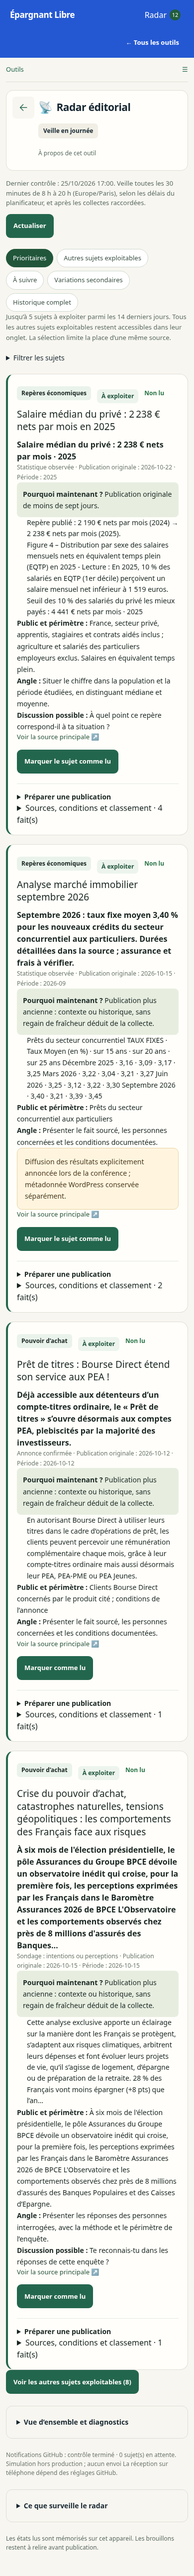
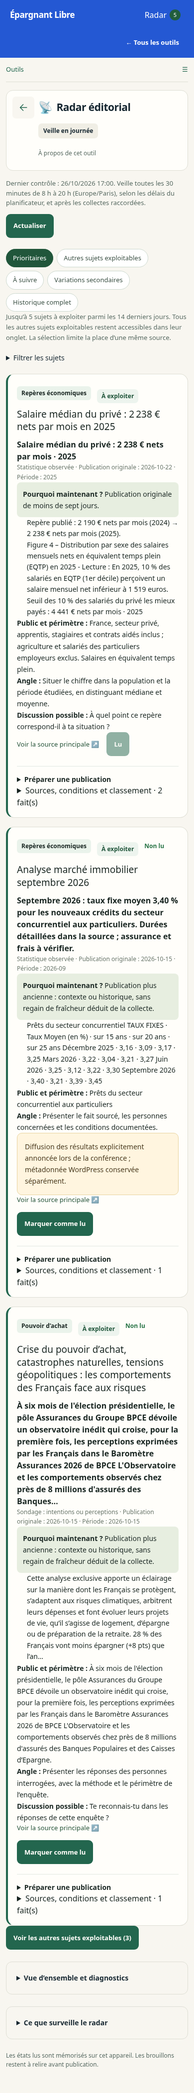
Préserver les archives hors sélection et vérifier les outils sans écraser les brouillons

diff --git a/src/lib/radar-editorial.js b/src/lib/radar-editorial.js
@@ -154,7 +154,7 @@ export function recentEditorial(event, now = Date.now()) {
 export function publicationSelection(events,{now=Date.now(),limit=EDITORIAL_LIMIT}={}) {
   const groups=groupSignals(events,now)
   const ready=groups.filter(g=>g.state==='ready'&&g.assessment.reliability.usable&&recentEditorial(g.event,now))
-  return {groups,ready,...selectEditorial(ready.filter(g=>g.assessment.priority),limit)}
+  return {groups,ready,...selectEditorial(ready.filter(g=>g.assessment.priority&&!g.event.backfill&&!g.event.migratedEditorial),limit)}
 }
 
 

diff --git a/docs/editorial-radar-publication-policy-2026-10-26.md b/docs/editorial-radar-publication-policy-2026-10-26.md
@@ -86,7 +86,8 @@ avant correction #959 contre un après ; aucune nouvelle mesure réelle sur une 
 ## Cartes, accueil et outils
 
 L’accueil conserve sa grille et son calendrier et ajoute « À publier maintenant » : zéro à
-trois sujets prioritaires non lus, sans remplissage. Sur mobile, les cartes défilent dans
+trois sujets prioritaires non lus, sans remplissage. Les reprises d’archives et migrations
+restent accessibles parmi les autres exploitables, sans occuper ces places. Sur mobile, les cartes défilent dans
 un bloc compact et un accès Radar reste visible menu fermé.
 
 Le badge compte les dossiers exploitables non lus, pas les erreurs. Il charge immédiatement
@@ -142,7 +143,7 @@ La supervision technique conserve incidents, essais, preuves et échecs dans le 
 « Données à revoir ». Elle cesse les commentaires à chaque nouvelle tentative/rétablissement
 local. Notification seulement pour une nouvelle panne critique ou extension significative :
 flux global illisible ≥1 h ; producteur Radar global en échec ≥2 h ; publication entière
-bloquée ≥6 h ; au moins deux familles prioritaires indisponibles ≥2 h. Rappel au plus après
+bloquée ≥6 h ; au moins deux familles prioritaires indisponibles ≥2 h. Rappels espacés d’au moins
 24 h, reçu durable et récupération après perte de réponse. Le déploiement de la politique
 initialise les anciens incidents sans rafale. Les détails HTTP seuls ne créent pas une nouvelle alerte.
 
